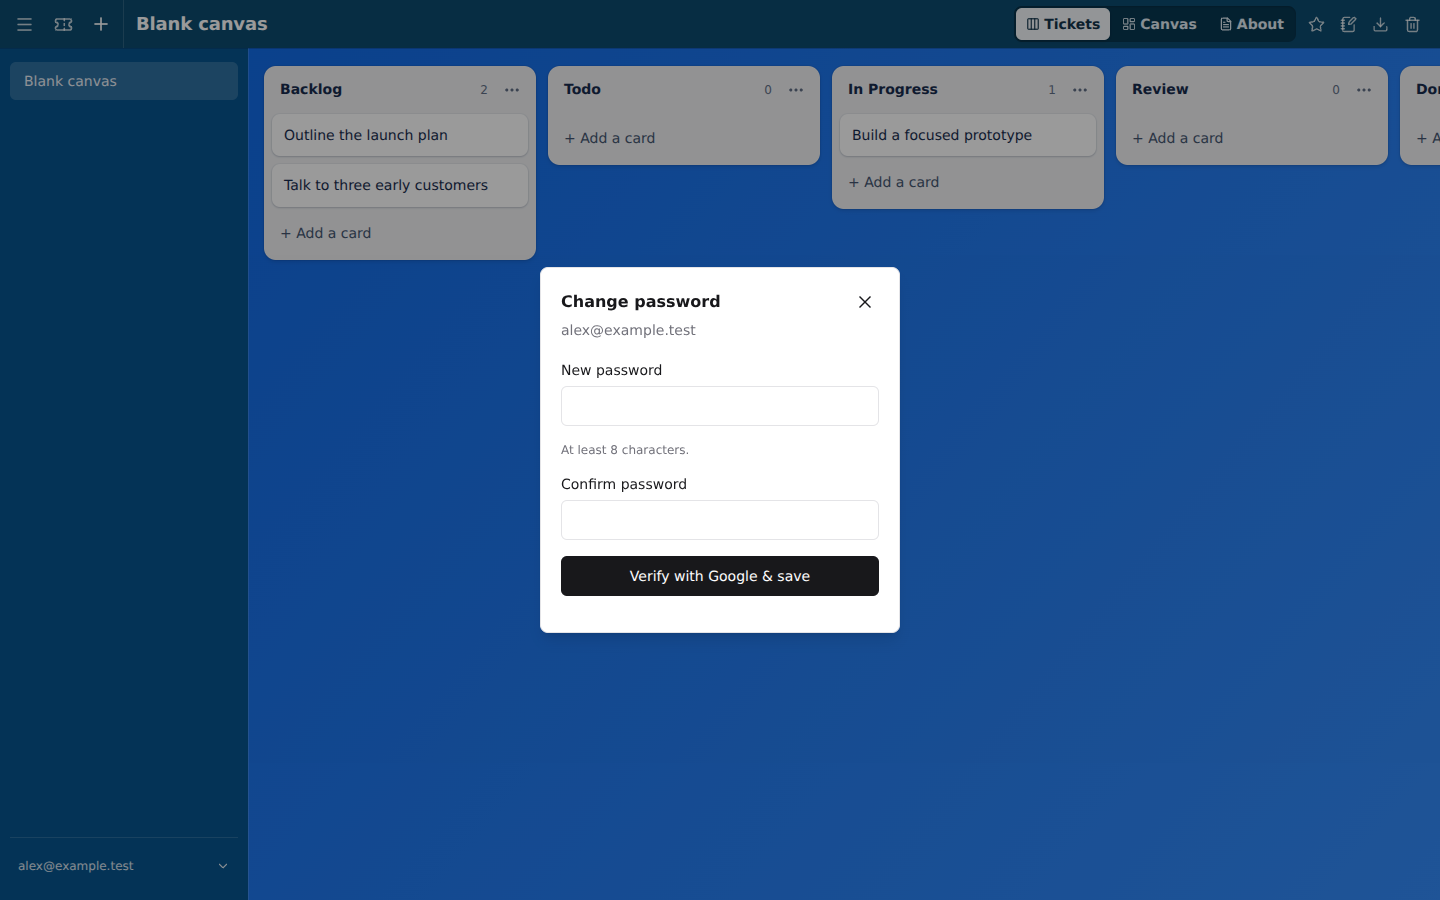
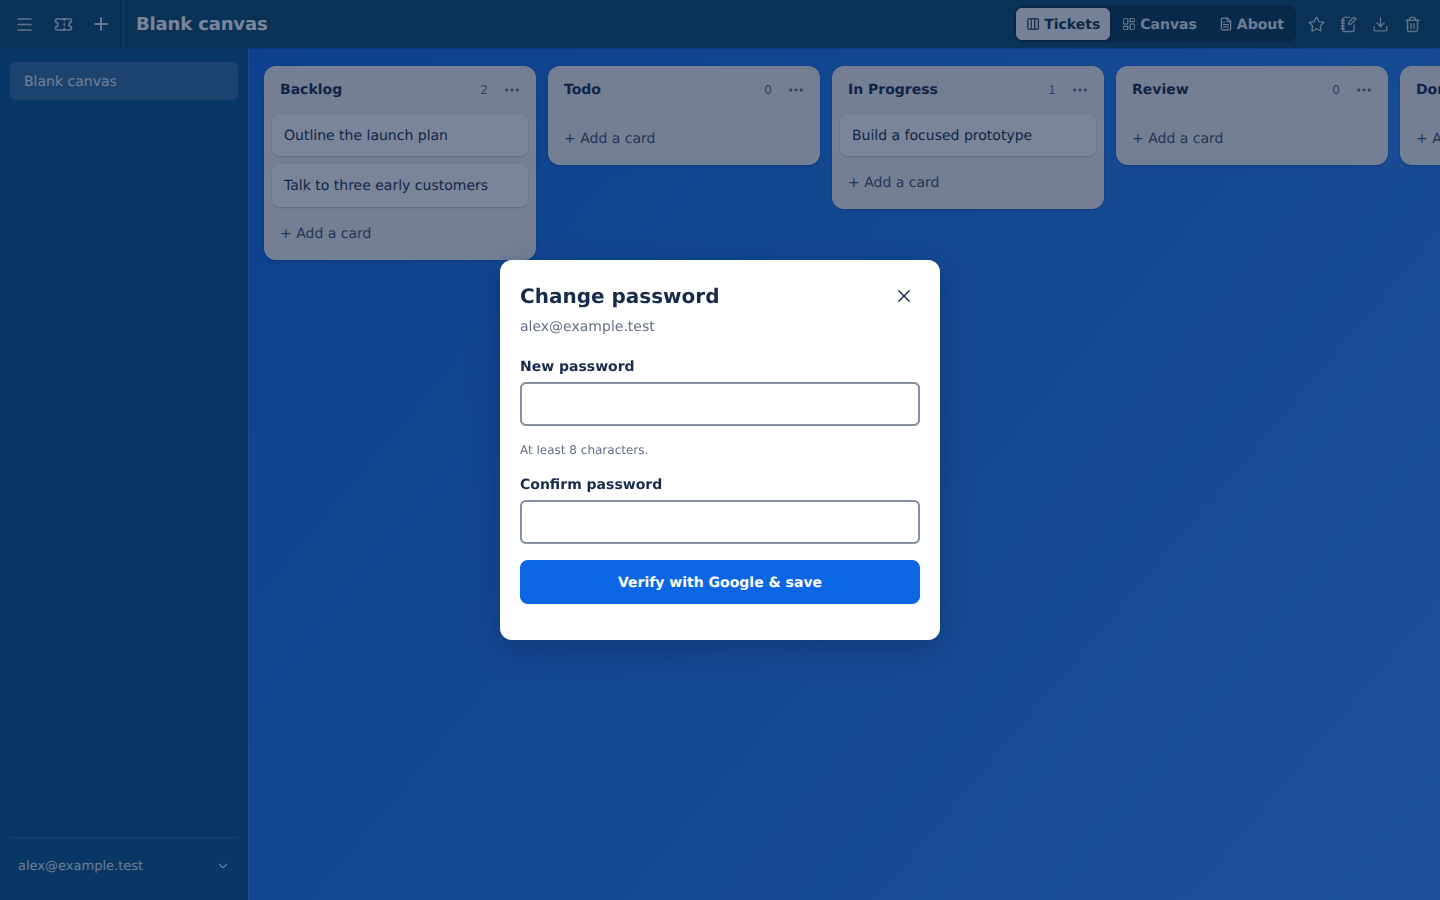
Restore default theme and existing component design language

Changed region(s): [[0.1562, 0.0, 1.0, 0.7156], [0.0938, 0.0, 0.1875, 0.0311], [0.0312, 0.9333, 0.0938, 0.9644]]

diff --git a/src/auth/PasswordDialog.tsx b/src/auth/PasswordDialog.tsx
@@ -24,16 +24,16 @@ export function PasswordDialog({ email, hasPassword, onSave, onClose }: Props) {
     return () => dialog?.close()
   }, [])
   return <dialog ref={ref} aria-labelledby="password-title" aria-describedby="password-account"
-    className="m-auto max-h-[calc(100dvh-40px)] w-[calc(100%-40px)] max-w-[360px] overflow-y-auto rounded-lg border border-[#e4e4e7] bg-white p-5 text-[#18181b] shadow-lg backdrop:bg-black/40"
+    className="m-auto max-h-[calc(100dvh-40px)] w-[calc(100%-40px)] max-w-[440px] overflow-y-auto rounded-xl border-0 bg-white p-5 text-[#172b4d] shadow-[0_10px_30px_rgba(9,30,66,0.35)] backdrop:bg-[rgba(9,30,66,0.54)]"
     onKeyDown={(event) => { if (event.key === 'Escape') { event.preventDefault(); event.stopPropagation(); if (!busy) close() } }}
     onCancel={(event) => { event.preventDefault(); if (!busy) close() }}>
     <div className="flex items-center justify-between gap-4">
-      <h2 id="password-title" className="text-base font-semibold">{saved ? 'Password saved' : title}</h2>
+      <h2 id="password-title" className="text-xl font-bold">{saved ? 'Password saved' : title}</h2>
       <button type="button" aria-label="Close password settings" disabled={busy} onClick={close}
-        className="rounded p-1 hover:bg-[#f1f2f4] focus-visible:outline-2 focus-visible:outline-[#0c66e4] disabled:opacity-50"><X size={20} /></button>
+        className="grid size-8 place-items-center rounded-md border-0 bg-transparent p-0 hover:bg-[#f1f2f4] focus-visible:outline-2 focus-visible:outline-offset-1 focus-visible:outline-[#0c66e4] disabled:opacity-65"><X size={20} /></button>
     </div>
-    <p id="password-account" className="mt-1 break-all text-sm text-[#71717a]">{email}</p>
-    {saved ? <><p role="status" className="mt-4 text-sm text-[#71717a]">You can now sign in with email.</p>
+    <p id="password-account" className="mt-1 break-all text-sm text-[#626f86]">{email}</p>
+    {saved ? <><p role="status" className="mt-4 text-sm text-[#626f86]">You can now sign in with email.</p>
       <button type="button" className={`${authSubmitClass} mt-5`} onClick={close}>Done</button></> :
       <form className="mt-5 space-y-4" onSubmit={async (event) => {
         event.preventDefault()
@@ -45,12 +45,12 @@ export function PasswordDialog({ email, hasPassword, onSave, onClose }: Props) {
         finally { setBusy(false) }
       }}>
         <input type="text" name="username" autoComplete="username" value={email} readOnly hidden />
-        <label className="block text-sm font-medium">New password
+        <label className="block text-sm font-semibold">New password
           <input className={authInputClass} name="new-password" type="password" autoComplete="new-password" minLength={8} required disabled={busy}
             aria-describedby="password-requirements" value={password} onChange={(event) => setPassword(event.target.value)} />
         </label>
-        <p id="password-requirements" className="text-xs text-[#71717a]">At least 8 characters.</p>
-        <label className="block text-sm font-medium">Confirm password
+        <p id="password-requirements" className="text-xs text-[#626f86]">At least 8 characters.</p>
+        <label className="block text-sm font-semibold">Confirm password
           <input className={authInputClass} name="confirm-password" type="password" autoComplete="new-password" minLength={8} required disabled={busy}
             value={confirm} onChange={(event) => setConfirm(event.target.value)} />
         </label>

diff --git a/src/auth/EmailSignInForm.tsx b/src/auth/EmailSignInForm.tsx
@@ -1,7 +1,7 @@
 import { useState } from 'react'
 
-export const authInputClass = 'mt-1.5 min-h-10 w-full rounded-md border border-[#e4e4e7] bg-white px-3 py-2 text-sm text-[#18181b] outline-none focus:border-[#a1a1aa] focus:ring-2 focus:ring-[#e4e4e7] disabled:opacity-50'
-export const authSubmitClass = 'min-h-10 w-full rounded-md bg-[#18181b] px-4 py-2 text-sm font-medium text-white hover:bg-[#27272a] focus-visible:outline-2 focus-visible:outline-offset-2 focus-visible:outline-[#18181b] disabled:cursor-wait disabled:opacity-50'
+export const authInputClass = 'mt-1.5 w-full rounded-md border-2 border-[#8590a2] bg-white px-3 py-2.5 text-sm text-[#172b4d] outline-none focus:border-[#0c66e4] disabled:opacity-65'
+export const authSubmitClass = 'min-h-11 w-full rounded-lg bg-[#0c66e4] px-4 py-2.5 text-sm font-semibold text-white hover:bg-[#0055cc] focus-visible:outline-2 focus-visible:outline-offset-2 focus-visible:outline-[#0c66e4] disabled:cursor-wait disabled:opacity-65'
 
 export function EmailSignInForm({ busy, pending, onSignIn }: { busy: boolean; pending: boolean; onSignIn: (email: string, password: string) => void }) {
   const [help, setHelp] = useState(false)
@@ -11,17 +11,17 @@ export function EmailSignInForm({ busy, pending, onSignIn }: { busy: boolean; pe
     event.preventDefault()
     if (!busy) onSignIn(email.trim(), password)
   }}>
-    <label className="block text-sm font-medium text-[#18181b]">Email
+    <label className="block text-sm font-semibold text-[#172b4d]">Email
       <input className={authInputClass} type="email" name="email" autoComplete="username" required disabled={busy}
         value={email} onChange={(event) => setEmail(event.target.value)} />
     </label>
-    <label className="block text-sm font-medium text-[#18181b]">Password
+    <label className="block text-sm font-semibold text-[#172b4d]">Password
       <input className={authInputClass} type="password" name="password" autoComplete="current-password" required disabled={busy}
         value={password} onChange={(event) => setPassword(event.target.value)} />
     </label>
     <button className={authSubmitClass} type="submit" disabled={busy} aria-busy={pending}>{pending ? 'Signing in…' : 'Sign in with email'}</button>
     <button type="button" aria-expanded={help} aria-controls="password-help" onClick={() => setHelp(!help)}
-      className="block text-xs text-[#71717a] underline-offset-4 hover:underline focus-visible:outline-2 focus-visible:outline-offset-2 focus-visible:outline-[#18181b]">Forgot or haven’t set a password?</button>
-    {help && <p id="password-help" className="text-xs leading-5 text-[#71717a]">Continue with Google, then open your account menu to set or change your password.</p>}
+      className="block text-xs text-[#626f86] underline-offset-4 hover:underline focus-visible:outline-2 focus-visible:outline-offset-2 focus-visible:outline-[#0c66e4]">Forgot or haven’t set a password?</button>
+    {help && <p id="password-help" className="text-xs leading-5 text-[#626f86]">Continue with Google, then open your account menu to set or change your password.</p>}
   </form>
 }

diff --git a/src/components/AccountButton.tsx b/src/components/AccountButton.tsx
@@ -12,7 +12,7 @@ interface Props {
   onSignOut: () => void | Promise<void>
   onSetPassword?: (password: string) => Promise<void>
 }
-const itemClass = 'flex min-h-9 w-full items-center gap-2 rounded-sm px-2 py-1.5 text-left text-sm outline-none hover:bg-[#f4f4f5] focus:bg-[#f4f4f5] disabled:opacity-50'
+const itemClass = 'flex min-h-9 w-full items-center gap-2 rounded-md border-0 bg-transparent px-3 py-1.5 text-left text-sm font-medium text-[#172b4d] hover:bg-[#f1f2f4] focus:bg-[#f1f2f4] focus-visible:outline-2 focus-visible:-outline-offset-2 focus-visible:outline-[#0c66e4] disabled:opacity-65'
 export function AccountButton({ user, onSignOut, onSetPassword }: Props) {
   const [passwordOpen, setPasswordOpen] = useState(false)
   const { id, trigger, panel, open, nativePopover, show, close, keydown } = useAccountMenu()
@@ -25,17 +25,17 @@ export function AccountButton({ user, onSignOut, onSetPassword }: Props) {
       onKeyDown={(event) => {
         if (event.key === 'ArrowDown' || event.key === 'ArrowUp') { event.preventDefault(); show(event.key === 'ArrowUp') }
       }}
-      className="sidebar-account flex min-h-10 w-full items-center gap-2 rounded-md px-2 py-2 text-left text-xs text-white/85 hover:bg-white/10 focus-visible:outline-2 focus-visible:outline-white disabled:opacity-50">
+      className="sidebar-account flex min-h-10 w-full items-center gap-2 rounded-md px-2 py-2 text-left text-[13px] font-medium text-white/85 hover:bg-white/10 focus-visible:outline-2 focus-visible:outline-white disabled:opacity-50">
       <span className="min-w-0 flex-1 truncate" title={label}>{pending ? 'Signing out…' : label}</span>
       <ChevronDown size={14} aria-hidden="true" className={`shrink-0 ${open ? 'rotate-180' : ''}`} />
     </button>
     {open && createPortal(<div ref={panel} id={id} role="menu" aria-label="Account actions"
       popover={nativePopover ? 'manual' : undefined} onKeyDown={keydown}
-      className="fixed inset-auto z-[100] m-0 w-[220px] max-w-[calc(100vw-16px)] rounded-md border border-[#e4e4e7] bg-white p-1 text-[#18181b] shadow-md">
+      className="fixed inset-auto z-[100] m-0 w-[220px] max-w-[calc(100vw-16px)] rounded-lg border border-[#dcdfe4] bg-white p-1.5 text-[#172b4d] shadow-[0_8px_24px_rgba(9,30,66,0.22)]">
       {onSetPassword && user.email && <>
         <button role="menuitem" tabIndex={-1} type="button" disabled={pending} className={itemClass}
           onClick={() => { close(); setPasswordOpen(true) }}><KeyRound size={15} aria-hidden="true" />{user.hasPassword ? 'Change password' : 'Set password'}</button>
-        <div role="separator" className="-mx-1 my-1 h-px bg-[#e4e4e7]" />
+        <div role="separator" className="-mx-1.5 my-1 h-px bg-[#dcdfe4]" />
       </>}
       <button role="menuitem" tabIndex={-1} type="button" disabled={pending} aria-busy={pending} className={itemClass}
         aria-label={`${pending ? 'Signing out' : 'Sign out'} ${label}`} onClick={() => void run()}>

diff --git a/src/auth/LoginScreen.tsx b/src/auth/LoginScreen.tsx
@@ -22,20 +22,20 @@ function GoogleMark() {
 export function LoginScreen({ busy, error, onSignIn, onEmailSignIn }: Props) {
   const [emailPending, setEmailPending] = useState(false)
   return (
-    <main className="grid min-h-dvh place-items-center bg-white px-6 py-10 text-[#18181b]">
-      <section className="w-full max-w-[320px]">
-        <h1 className="text-center text-xl font-semibold tracking-tight">Sign in to Lean Canvas</h1>
+    <main className="grid min-h-dvh place-items-center bg-linear-[135deg,#0747a6_0%,#0c66e4_48%,#579dff_100%] p-5 text-[#172b4d]">
+      <section className="w-full max-w-[420px] rounded-3xl border border-white/35 bg-white p-8 shadow-[0_24px_70px_rgba(9,30,66,0.35)]">
+        <h1 className="text-center text-2xl font-bold tracking-[-0.04em]">Sign in to Lean Canvas</h1>
         <button type="button" onClick={() => { setEmailPending(false); onSignIn() }} disabled={busy}
           aria-busy={busy && !emailPending}
-          className="mt-6 flex min-h-10 w-full items-center justify-center gap-2 rounded-md border border-[#e4e4e7] bg-white px-3 text-sm font-medium hover:bg-[#f4f4f5] focus-visible:outline-2 focus-visible:outline-offset-2 focus-visible:outline-[#18181b] disabled:opacity-50">
+          className="mt-6 flex h-12 w-full items-center justify-center gap-3 rounded-xl border border-[#c7d1e0] bg-white px-5 text-sm font-semibold shadow-sm transition hover:bg-[#f7f8f9] focus-visible:outline-3 focus-visible:outline-offset-2 focus-visible:outline-[#0c66e4] disabled:cursor-wait disabled:opacity-65">
           <GoogleMark />{busy && !emailPending ? 'Connecting to Google…' : 'Continue with Google'}
         </button>
-        <p className="mt-2 text-center text-xs text-[#71717a]">New here? Create your account with Google.</p>
-        <div className="my-5 flex items-center gap-3 text-xs text-[#71717a]"><span className="h-px flex-1 bg-[#e4e4e7]" />or<span className="h-px flex-1 bg-[#e4e4e7]" /></div>
+        <p className="mt-2 text-center text-xs text-[#626f86]">New here? Create your account with Google.</p>
+        <div className="my-5 flex items-center gap-3 text-xs text-[#626f86]"><span className="h-px flex-1 bg-[#dcdfe4]" />or<span className="h-px flex-1 bg-[#dcdfe4]" /></div>
         <EmailSignInForm busy={busy} pending={busy && emailPending}
           onSignIn={(email, password) => { setEmailPending(true); onEmailSignIn(email, password) }} />
         <p role="status" aria-atomic="true" className="sr-only">{busy ? emailPending ? 'Signing in with email…' : 'Connecting to Google…' : ''}</p>
-        {error && <p className="mt-4 text-sm text-[#b91c1c]" role="alert">{error}</p>}
+        {error && <p className="mt-4 text-sm text-[#ae2e24]" role="alert">{error}</p>}
       </section>
     </main>
   )

diff --git a/docs/pr-proofs/email-login/README.md b/docs/pr-proofs/email-login/README.md
@@ -1,6 +1,6 @@
 # Email login UI proof
 
-Updated after the minimal-UI review of PR #25. Captured from built Storybook with synthetic `alex@example.test` data and mocked authentication callbacks. No production account or Google credentials are used.
+Updated after the minimal-UI and default-theme reviews of PR #25. The compact screens and account menu use the app’s existing blue palette, typography, inputs, buttons, dialog, and menu styling. Captured from built Storybook with synthetic `alex@example.test` data and mocked authentication callbacks. No production account or Google credentials are used.
 
 | Image | UI state |
 | --- | --- |
@@ -21,7 +21,7 @@ Reproduce with `npm run build-storybook`, serve `storybook-static`, and open its
 - `screens-workspace-account--desktop` (expand the account email; on mobile open the sidebar first)
 - `screens-workspace-account--with-password` (expand the email and choose Change password)
 
-Validation: `npm run typecheck`, `npm run lint`, `npm run build`, `npm run build-storybook`, and all 115 unit tests pass. The focused browser suite passes 38 stories across 12 affected files. Coverage includes account-menu arrows/Home/End, Tab/outside/Escape dismissal, focus restoration, pending-signout Escape, menu bounds, sign-out failure/retry, optional recovery help, and password save flows. Workspace stories run with one worker because their existing localStorage fixtures share keys.
+For the styling-only default-theme correction, `npm run typecheck`, `npm run lint`, `npm run build`, `npm run build-storybook`, and visual screenshot review pass. Behavior is unchanged; the preceding revision passed all 115 unit tests and 38 focused browser stories across 12 affected files. Coverage includes account-menu arrows/Home/End, Tab/outside/Escape dismissal, focus restoration, pending-signout Escape, menu bounds, sign-out failure/retry, optional recovery help, and password save flows. Workspace stories run with one worker because their existing localStorage fixtures share keys.
 
 The sandbox's default Playwright browser download was unavailable; browser checks ran with an npm-packaged Chromium executable through a temporary local Vitest launch override. Dependencies were restored with `npm ci` before tests. The override and browser package are not part of the change.
 
